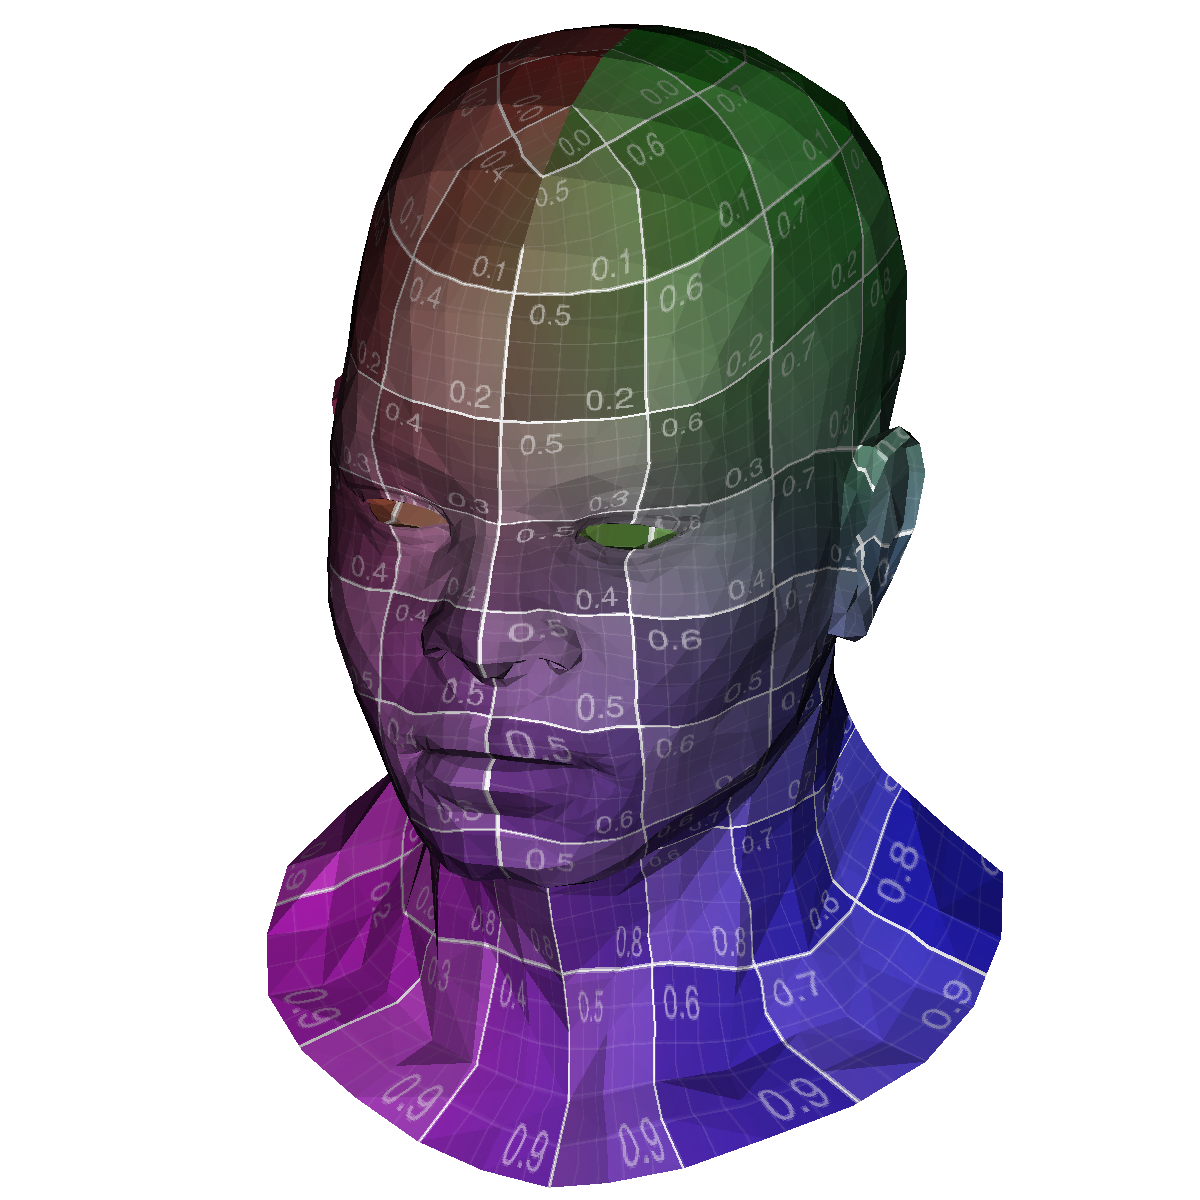
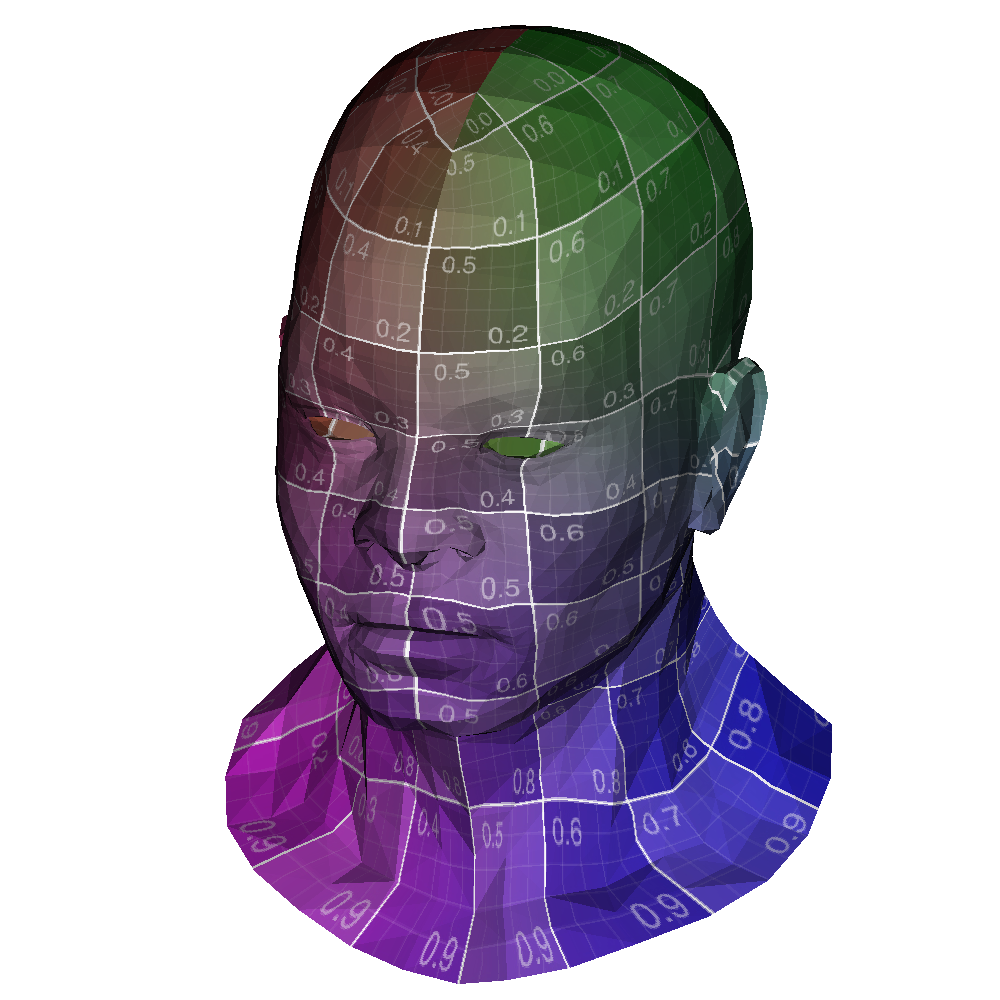
More comments and some optimization (caching pixel coordinates)

diff --git a/render.py b/render.py
@@ -2,7 +2,7 @@
 import numpy as np
 
 def triangle(A, B, C, intensity):
-    global texture, image, zbuffer
+    global coords, texture, image, zbuffer
     (v0, uv0), (v1, uv1), (v2, uv2) = A, B, C
 
     # Barycentric coordinates of points inside the triangle bounding box
@@ -10,16 +10,19 @@ def triangle(A, B, C, intensity):
         T = np.linalg.inv([[v0[0],v1[0],v2[0]], [v0[1],v1[1],v2[1]], [1,1,1]])
     except np.linalg.LinAlgError:
         return
-    xmin = max(0,              min(v0[0], v1[0], v2[0]))
-    xmax = min(image.shape[1], max(v0[0], v1[0], v2[0])+1)
-    ymin = max(0,              min(v0[1], v1[1], v2[1]))
-    ymax = min(image.shape[0], max(v0[1], v1[1], v2[1])+1)
-    P = np.mgrid[xmin:xmax, ymin:ymax].reshape(2,-1).astype(int)
+    xmin = int(max(0,              min(v0[0], v1[0], v2[0])))
+    xmax = int(min(image.shape[1], max(v0[0], v1[0], v2[0])+1))
+    ymin = int(max(0,              min(v0[1], v1[1], v2[1])))
+    ymax = int(min(image.shape[0], max(v0[1], v1[1], v2[1])+1))
+
+    P = coords[:, xmin:xmax, ymin:ymax].reshape(2,-1)
     B = np.dot(T, np.vstack((P, np.ones((1, P.shape[1]), dtype=int))))
 
-    # Points inside triangle
+    # Cartesian coordinates of points inside the triangle
     I = np.argwhere(np.all(B >= 0, axis=0))
     X, Y, Z = P[0,I], P[1,I], v0[2]*B[0,I] + v1[2]*B[1,I] + v2[2]*B[2,I]
+
+    # Texture coordinates of points inside the triangle
     U = (    (uv0[0]*B[0,I] + uv1[0]*B[1,I] + uv2[0]*B[2,I]))*(texture.shape[0]-1)
     V = (1.0-(uv0[1]*B[0,I] + uv1[1]*B[1,I] + uv2[1]*B[2,I]))*(texture.shape[1]-1)
     C = texture[V.astype(int), U.astype(int)]
@@ -50,49 +53,57 @@ def obj_load(filename):
 
 def lookat(eye, center, up):
     normalize = lambda x: x/np.linalg.norm(x)
+    M = np.eye(4)
     z = normalize(eye-center)
     x = normalize(np.cross(up,z))
     y = normalize(np.cross(z,x))
-    M = np.eye(4)
     M[0,:3], M[1,:3], M[2,:3], M[:3,3] = x, y, z, -center
     return M
 
+def viewport(x, y, w, h, d):
+    return np.array([[w/2, 0, 0, x+w/2],
+                     [0, h/2, 0, y+h/2],
+                     [0, 0, d/2,   d/2],
+                     [0, 0, 0,       1]])
 
 if __name__ == '__main__':
-    import sys
+    import time
     from imageio.core.functions import imwrite, imread
 
-    width, height = 1200,1200    
-    image = np.zeros((height,width,4), dtype=np.uint8)
-    zbuffer = -np.ones((height,width))*sys.maxsize
+    width, height = 1000,1000
+    light_dir     = np.array([0,0,-1])
+    eye           = np.array([1,1,3])
+    center        = np.array([0,0,0])
+    up            = np.array([0,1,0])
     
+    image = np.zeros((height,width,4), dtype=np.uint8)
+    zbuffer = -1000*np.ones((height,width))
+    coords = np.mgrid[0:width, 0:height].astype(int)
+
+
     V, T, Vi, Ti = obj_load("head.obj")
     texture = imread("uv-grid.png")
-    light_dir = np.array([0,0,-1])
-    eye = np.array([1,1,3])
-    center = np.array([0,0,0])
-    up = np.array([0,1,0])
-
-    x, y, w, h, d = 32, 32, width-64, height-64, 1000
-    viewport = np.array([[w/2, 0, 0, x+w/2],
-                         [0, h/2, 0, y+h/2],
-                         [0, 0, d/2,   d/2],
-                         [0, 0, 0,       1]])
+    viewport = viewport(32, 32, width-64, height-64, 1000)
     modelview = lookat(eye, center, up)
+
+    Vh = np.c_[V, np.ones(len(V))] # Homogenous coordinates
+    V = Vh @ modelview.T           # World coordinates
+    Vs = V @ viewport.T            # Screen coordinates
+    V, Vs = V[:,:3],  Vs[:,:3]
     
-    Vh = np.c_[V, np.ones(len(V))]
-    V = Vh@modelview.T
-    Vs = V@viewport.T
-    
-    V, Vs= V[:,:3], Vs[:,:3]
+    start = time.time()
     for (i0,i1,i2), (j0,j1,j2) in zip(Vi,Ti):
         v0,v1,v2 = V[i0], V[i1], V[i2]
+        vs0,vs1,vs2 = Vs[i0], Vs[i1], Vs[i2]
         uv0, uv1, uv2 = T[j0], T[j1], T[j2]
+
         n = np.cross(v2-v0, v1-v0)
         n = n / np.linalg.norm(n)
         intensity = np.dot(n, light_dir)
+        
         if intensity >= 0:
             color = intensity*255,intensity*255,intensity*255, 255
-            # triangle( (v0,uv0), (v1,uv1), (v2,uv2), intensity)
-            triangle( (Vs[i0],uv0), (Vs[i1],uv1), (Vs[i2],uv2), intensity)
+            triangle( (vs0,uv0), (vs1,uv1), (vs2,uv2), intensity)
+    end = time.time()
+    print("Rendering time: {}".format(end-start))
     imwrite("output.png", image[::-1,:,:])

diff --git a/README.md b/README.md
@@ -1,5 +1,6 @@
 ### A tiny 3D renderer in 100 lines of Python
 
-Translated from https://github.com/ssloy/tinyrenderer/wiki - Model by [Vidar Rapp](https://se.linkedin.com/in/vidarrapp)
+Translated from https://github.com/ssloy/tinyrenderer/wiki - Model by [Vidar Rapp](https://se.linkedin.com/in/vidarrapp)  
+Performance: 2492 textured and lighted triangles rendered in 0.65 second on a Macbook Pro  
 
 ![](./output.png)
